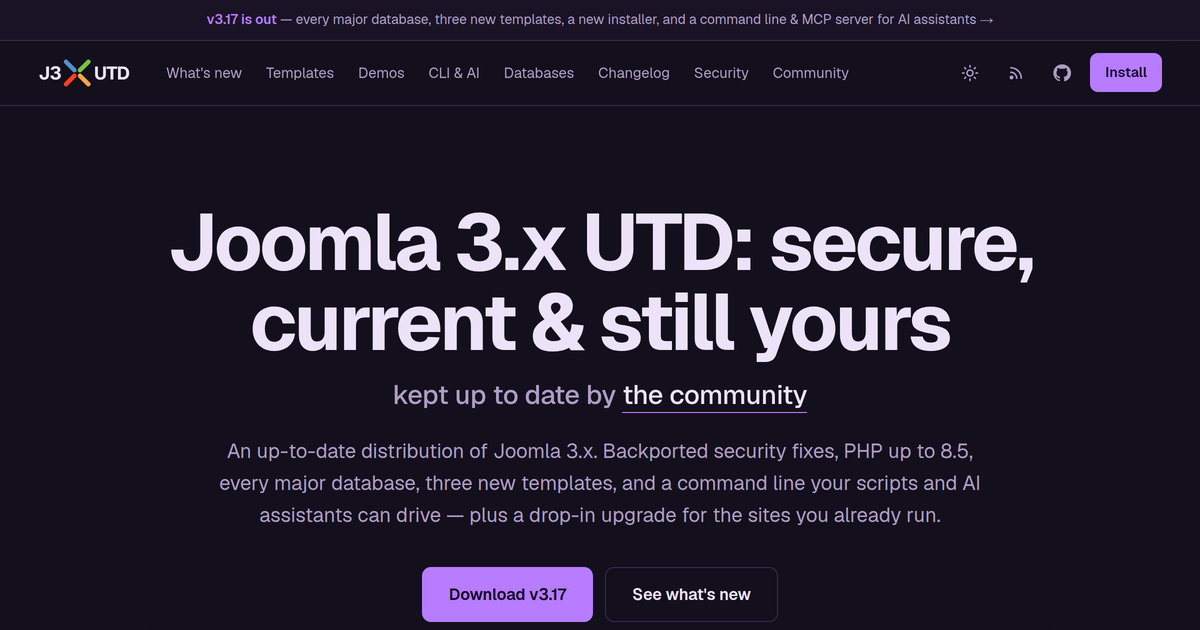
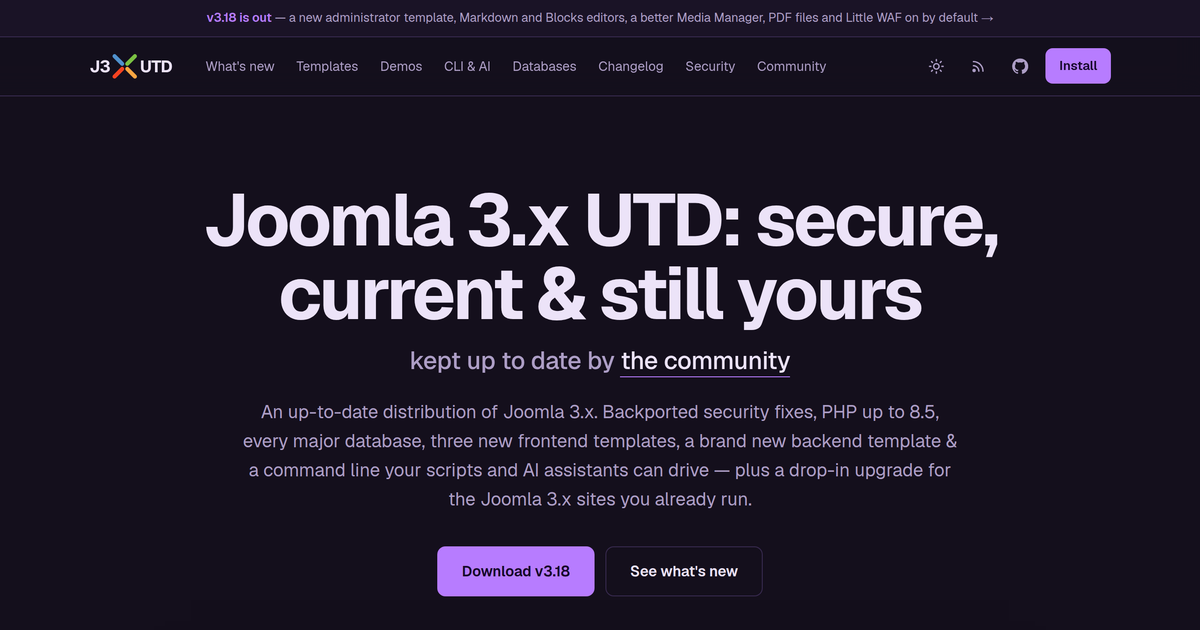
Site: social and structured data image of the v3.18 page

diff --git a/index.html b/index.html
@@ -16,7 +16,7 @@
     <meta property="og:url" content="https://j3xutd.joomlaworks.net/" />
     <meta property="og:title" content="Joomla 3.x UTD — secure, current &amp; still yours" />
     <meta property="og:description" content="An up-to-date distribution of Joomla 3.x. v3.18: a new administrator template, Markdown and Blocks editors, a better Media Manager, PDF files, Little WAF on by default and faster caching, with no jQuery or Bootstrap in the core. Every major database, a command line and MCP server for AI assistants." />
-    <meta property="og:image" content="https://j3xutd.joomlaworks.net/assets/og-image.png" />
+    <meta property="og:image" content="https://j3xutd.joomlaworks.net/assets/og-image.png?v=20261105" />
     <meta property="og:image:type" content="image/png" />
     <meta property="og:image:width" content="1200" />
     <meta property="og:image:height" content="630" />
@@ -27,7 +27,7 @@
     <meta name="twitter:site" content="@joomlaworks" />
     <meta name="twitter:title" content="Joomla 3.x UTD — secure, current &amp; still yours" />
     <meta name="twitter:description" content="An up-to-date distribution of Joomla 3.x. v3.18: a new administrator template, Markdown and Blocks editors, a better Media Manager, PDF files, Little WAF on by default and faster caching, with no jQuery or Bootstrap in the core. Every major database, a command line and MCP server for AI assistants." />
-    <meta name="twitter:image" content="https://j3xutd.joomlaworks.net/assets/og-image.png" />
+    <meta name="twitter:image" content="https://j3xutd.joomlaworks.net/assets/og-image.png?v=20261105" />
     <meta name="twitter:image:alt" content="Joomla 3.x UTD: secure, current &amp; still yours. Kept up to date by the community." />
 
     <!-- Structured data (Google) -->
@@ -71,7 +71,7 @@
                 "license": "https://www.gnu.org/licenses/old-licenses/gpl-2.0.html",
                 "isAccessibleForFree": true,
                 "offers": { "@type": "Offer", "price": "0", "priceCurrency": "USD" },
-                "image": "https://j3xutd.joomlaworks.net/assets/og-image.png",
+                "image": "https://j3xutd.joomlaworks.net/assets/og-image.png?v=20261105",
                 "screenshot": [
                     "https://j3xutd.joomlaworks.net/assets/shots/hammond-home.webp",
                     "https://j3xutd.joomlaworks.net/assets/shots/finch-home.webp",
